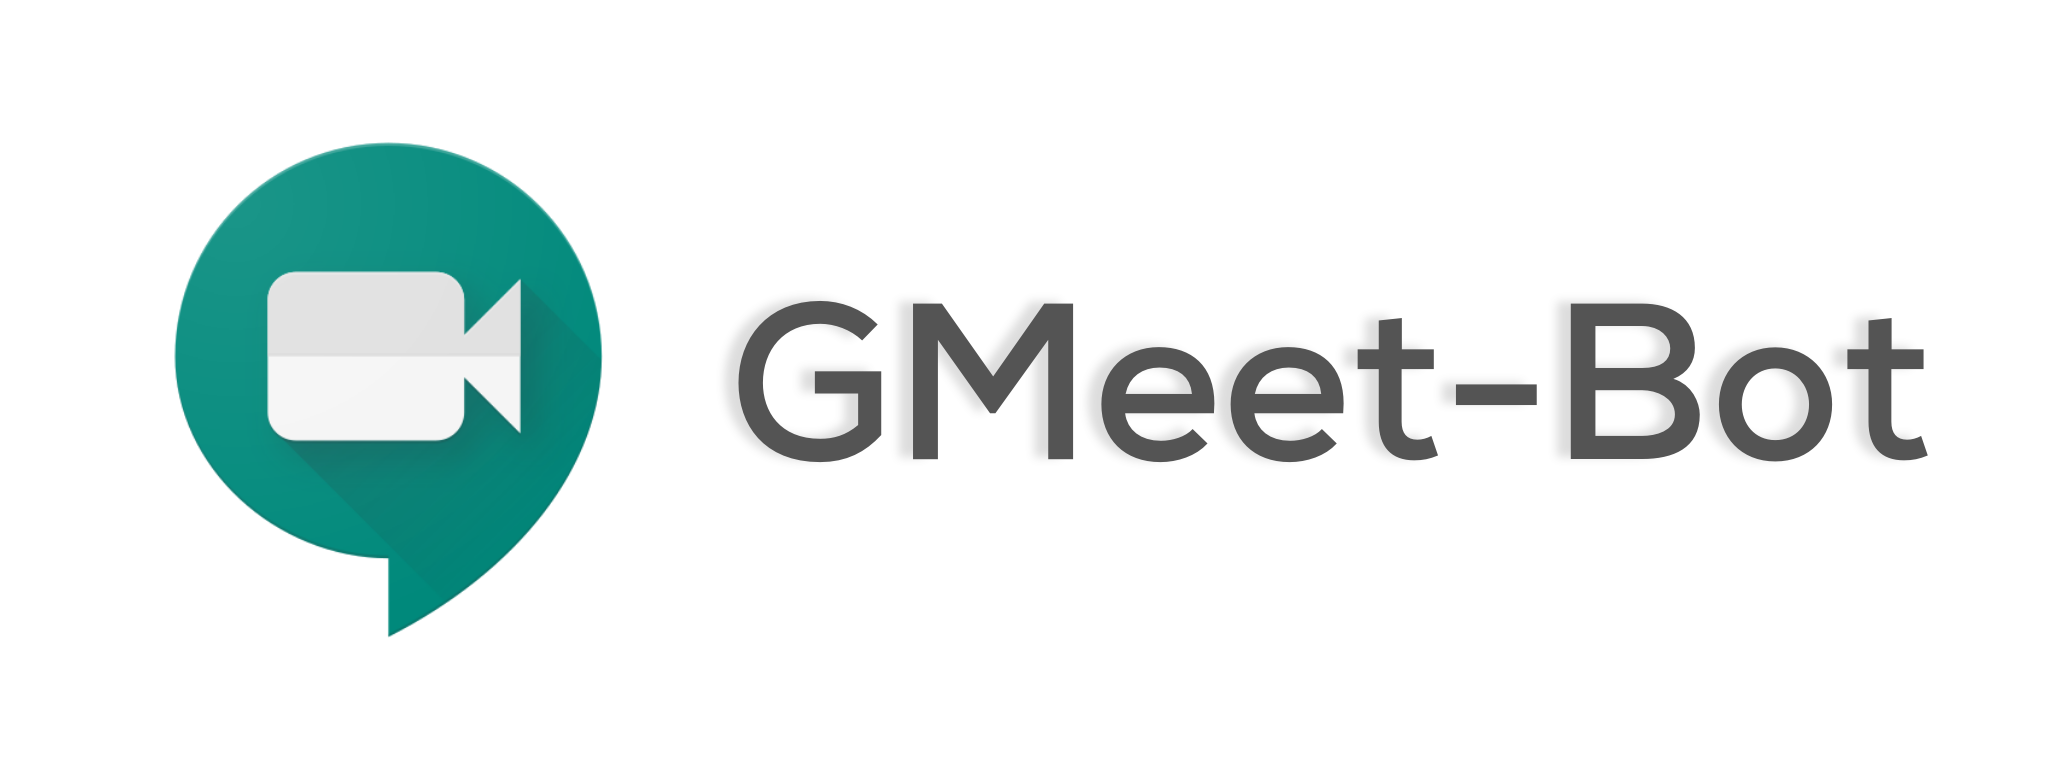
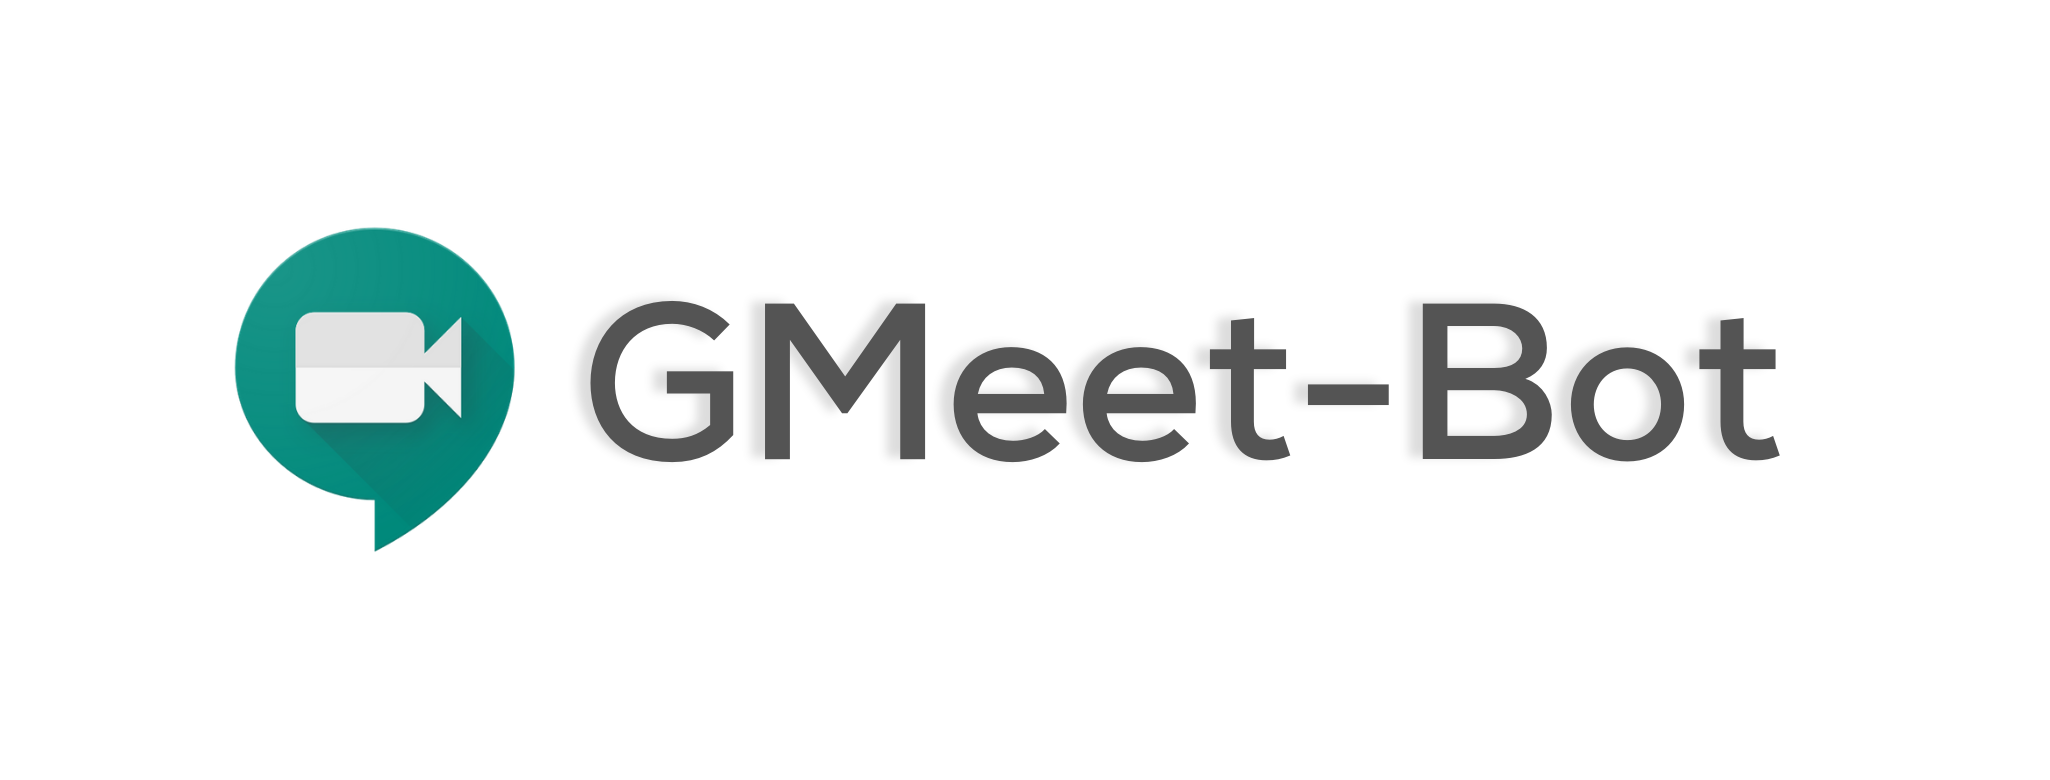
Updated readme

Changed region(s): [[0.0624, 0.1846, 0.9366, 0.8308]]

diff --git a/README.MD b/README.MD
@@ -1,7 +1,7 @@
 <img src="docs/images/Gmeet_bot_header.png" align="center"><br>
 
-<center><p>I built this to make my life easier as a student. Hope this helps you too!<br>
-This bot joins your classes for you on time automatically using the data about your classroom schedule and account credentials.<br><a href="https://github.com/sooryaprakash31/GMeet-Bot">#AutomateAndChill</p></center>
+<p align="center">I built this to make my life easier as a student. Hope this helps you too!<br>
+This bot joins your classes for you on time automatically using the data about your classroom schedule and account credentials.<br><a href="https://github.com/sooryaprakash31/GMeet-Bot">#AutomateAndChill</p>
 
   - [Requirements](#requirements)
   - [Setup](#setup)
